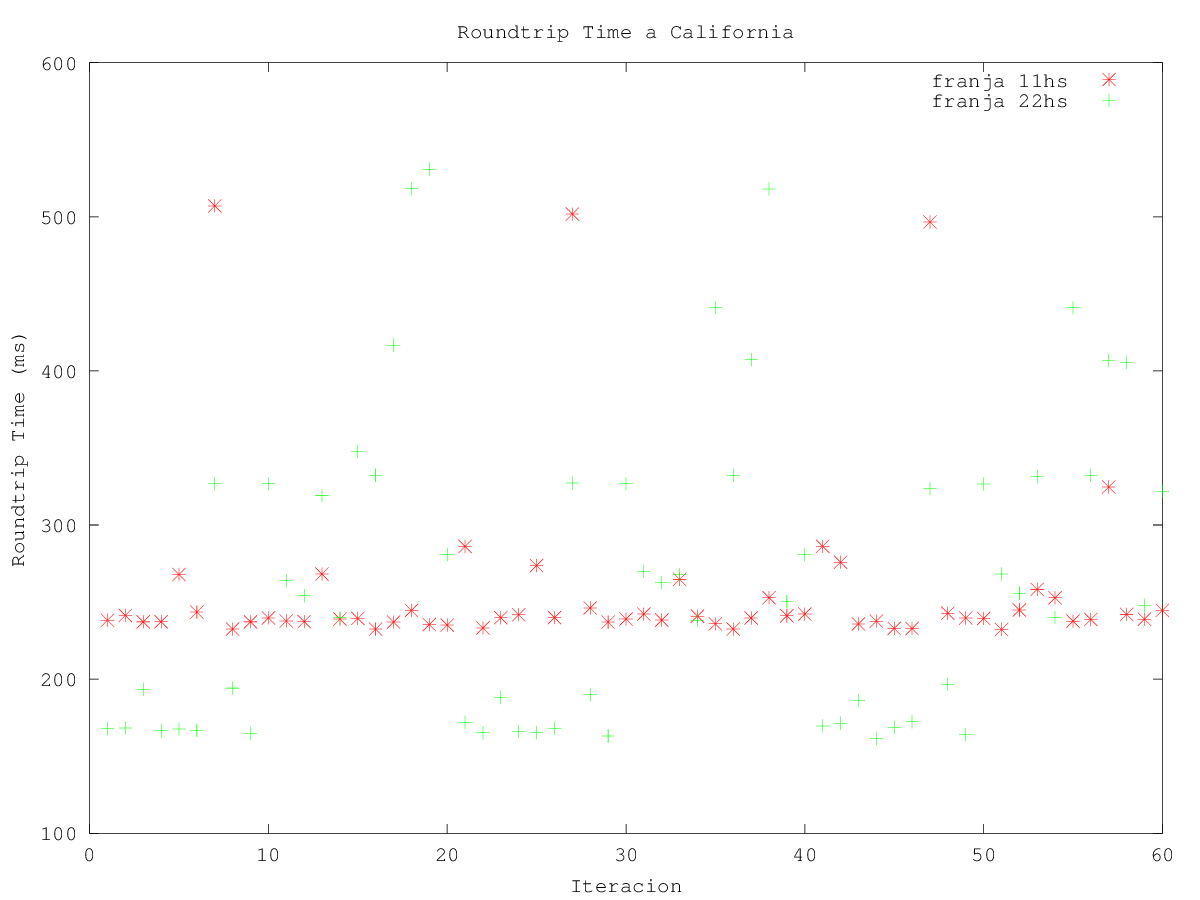
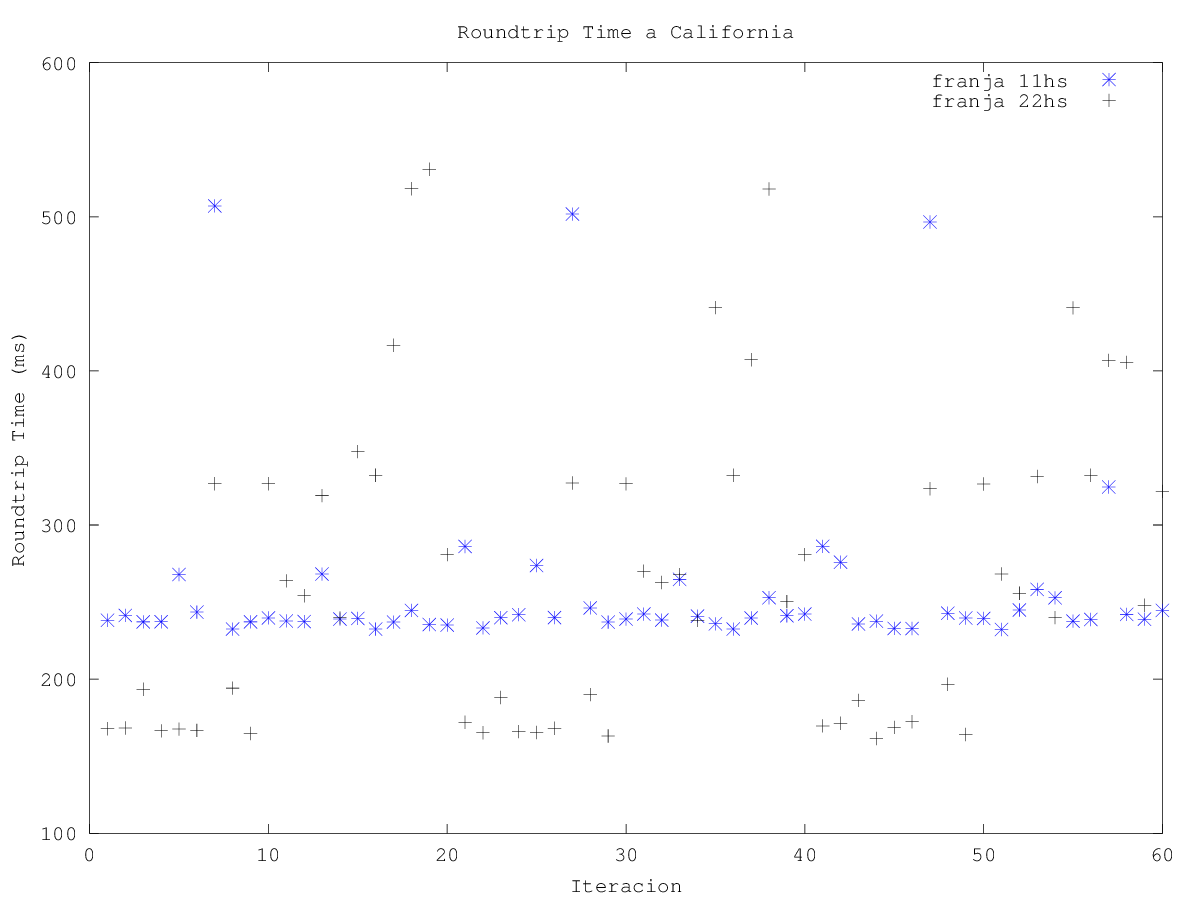
Agrega colores imprimibles en graficos rtt horarios

diff --git a/tp1b/octave/plot_ciudad_especifica.m b/tp1b/octave/plot_ciudad_especifica.m
@@ -4,7 +4,7 @@ function plot_ciudad_especifica(city)
 	else
     franjas = [0, 2, 8, 11, 15, 22];
     puntos = ['*', '+', 'o', 'x', '*', '.'];
-    colores = ['r', 'g', 'b', 'm', 'k', 'r'];
+    colores = ['b', 'k', 'r', 'm', 'g', 'r'];
 
     min_filas = 21;
 
